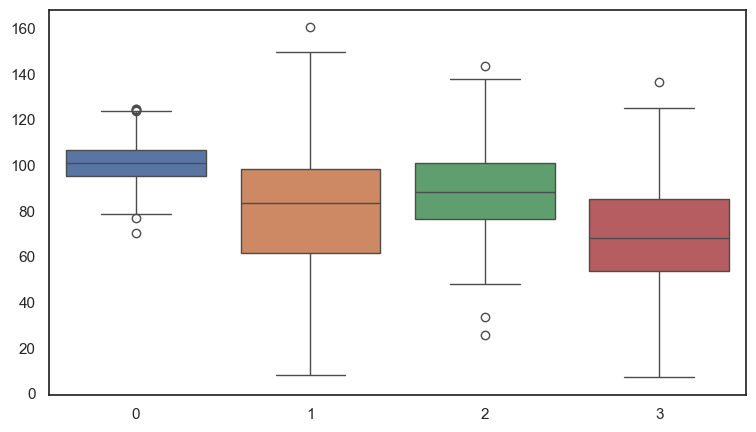
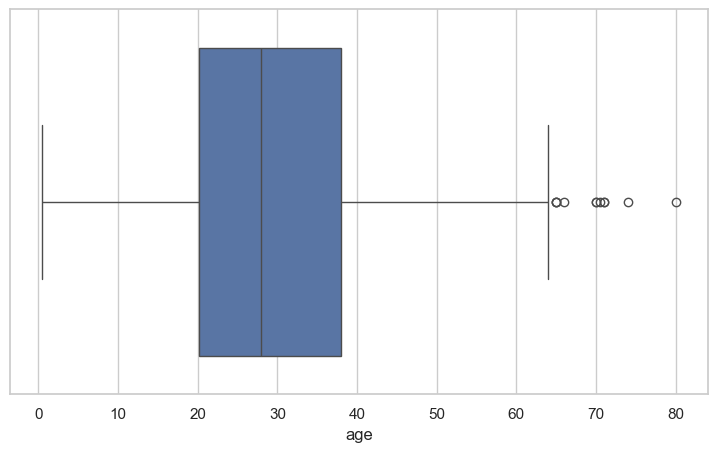
docs: add various notes

diff --git a/app/templates/pages/about.html b/app/templates/pages/about.html
@@ -1,4 +1,19 @@
 {% extends 'base.html' %}
 
 {% block content %}
+<div class="container">
+    <h1>About</h1>
+    <p>Welcome to my Student Journal! This repository is a collection of my work and learnings throughout my Master's in
+        Applied Data Science from 2023 to 2025.</p>
+    <h2>Overview</h2>
+    <p>This journal is a reflection of my journey through the world of data science. It contains notes, code snippets,
+        and projects that I've worked on during my Master's program. The notes cover a wide range of topics, from
+        statistical distributions to data analysis techniques.</p>
+    <h2>Motivation</h2>
+    <p>I created this journal to document my progress and to share my learnings with others. It is loosely based on the
+        <a href="https://zettelkasten.de/" target="_blank">Zettelkasten</a> method of note-taking. I hope that this
+        journal will be a useful
+        resource for others who are interested in data science.
+    </p>
+</div>
 {% endblock content %}

diff --git a/app/templates/pages/index.html b/app/templates/pages/index.html
@@ -96,8 +96,8 @@
 
     // Define simulation based on state properties
     const simulation = d3.forceSimulation(nodes)
-        .force("link", d3.forceLink(edges).id(d => d.id).distance(120))
-        .force("charge", d3.forceManyBody().strength(-240))
+        .force("link", d3.forceLink(edges).id(d => d.id).distance(80))
+        .force("charge", d3.forceManyBody().strength(-80))
         .force("center", d3.forceCenter(Math.round(container.offsetWidth / 2), Math.round(container.offsetHeight / 2)))
         .on("tick", onTick);
 

diff --git a/app/static/style.css b/app/static/style.css
@@ -219,9 +219,10 @@ a:focus {
 }
 
 blockquote {
-    margin-top: 1.6rem;
-    margin-bottom: 1.6rem;
+    border-left: 0.25rem solid var(--primary-200);
+    margin: 1.6rem 0;
     padding-left: var(--space-4);
+    font-style: italic;
 }
 
 h1,
@@ -248,7 +249,7 @@ h2 {
 h3 {
     font-size: 1.25rem;
     margin-top: 1.6rem;
-    margin-bottom: 9.6rem;
+    margin-bottom: 0.6rem;
     line-height: 1.6;
 }
 

diff --git a/app/notes/boxplot.md b/app/notes/boxplot.md
@@ -7,19 +7,12 @@ tags: statistics, plots
 A boxplot is a standardized way of displaying the distribution of data based on a five number summary (“minimum”, first quartile (Q1), median, third quartile (Q3), and “maximum”). It can tell you about your outliers and what their values are. It can also tell you if your data is symmetrical, how tightly your data is grouped, and if and how your data is skewed.
 
 ```python
-import numpy as np
+import matplotlib.pyplot as plt
 import seaborn as sns
 
-np.random.seed(10) # Set a seed for reproducibility
+plt.figure(figsize=(9, 5))
 
-collection_1 = np.random.normal(100, 10, 200)
-collection_2 = np.random.normal(80, 30, 200)
-collection_3 = np.random.normal(90, 20, 200)
-collection_4 = np.random.normal(70, 25, 200)
-
-data = [collection_1, collection_2, collection_3, collection_4]
-
-sns.boxplot(data=data)
+sns.boxplot(x=sns.load_dataset("titanic")["age"])
 ```
 
 ![Boxplot](/images/boxplot.png)
@@ -30,3 +23,4 @@ The boxplot is one of the most useful [[plots]] in Exploratory Data Analysis to 
 
 - [[https://en.wikipedia.org/wiki/Box_plot]]
 - [[https://matplotlib.org/3.1.1/gallery/pyplots/boxplot_demo_pyplot.html]]
+- [[https://seaborn.pydata.org/generated/seaborn.boxplot.html]]

diff --git a/app/notes/scatterplot.md b/app/notes/scatterplot.md
@@ -4,3 +4,27 @@ title: Scatterplot
 tags: statistics, plots
 ---
 
+The Scatterplot is a type of plot or mathematical diagram using Cartesian coordinates to display values for typically two variables for a set of data. If the points are color-coded, one additional variable can be displayed. The data is displayed as a collection of points, each having the value of one variable determining the position on the horizontal axis and the value of the other variable determining the position on the vertical axis.
+
+Scatterplots are used to observe relationships between variables. The data is displayed as a collection of points, each having the value of one variable determining the position on the horizontal axis and the value of the other variable determining the position on the vertical axis.
+
+```python
+import seaborn as sns
+import matplotlib.pyplot as plt
+
+plt.figure(figsize=(9, 5))
+
+sns.scatterplot(
+    data=sns.load_dataset("tips"),
+    x="total_bill",
+    y="tip",
+    hue="time",
+)
+```
+
+![Scatterplot](/images/scatterplot.png)
+
+## References
+
+- https://en.wikipedia.org/wiki/Scatter_plot
+- https://seaborn.pydata.org/generated/seaborn.scatterplot.html

diff --git a/app/notes/violinplot.md b/app/notes/violinplot.md
@@ -4,3 +4,30 @@ title: Violinplot
 tags: statistics, plots
 ---
 
+The Violinplot is a combination of a [[boxplot]] and a density plot. It shows the distribution of quantitative data across several levels of one (or more) categorical variables such that those distributions can be compared. Unlike a box plot, in which all of the plot components correspond to actual datapoints, the violin plot features a kernel density estimation of the underlying distribution.
+
+The advantage of violin plots over boxplots is that they show the full distribution of the data. In addition, their shapes are easier to interpret and compare between groups.
+
+```python
+import seaborn as sns
+import matplotlib.pyplot as plt
+
+plt.figure(figsize=(9, 5))
+
+sns.violinplot(
+    data=sns.load_dataset("titanic"),
+    x="age",
+    y="sex",
+    hue="alive",
+    split=True,
+    inner="quart",
+)
+
+```
+
+![Violinplot](/images/violinplot.png)
+
+## References
+
+- https://en.wikipedia.org/wiki/Violin_plot
+- https://seaborn.pydata.org/generated/seaborn.violinplot.html

diff --git a/app/notes/null-hypothesis.md b/app/notes/null-hypothesis.md
@@ -6,7 +6,7 @@ tags: statictics, concepts
 
 A Null Hypothesis is a statement that there is no relationship between two variables. It is the default position that there is no relationship between two variables. The alternative hypothesis is the opposite of the null hypothesis. It is usually the hypothesis you set out to investigate. The alternative hypothesis is what you hope to prove in your study/experiment.
 
-## Example
+### Example
 
 Let's say you are interested in the relationship between the amount of coffee a person drinks and their productivity at work. You could set up a null hypothesis like this:
 
